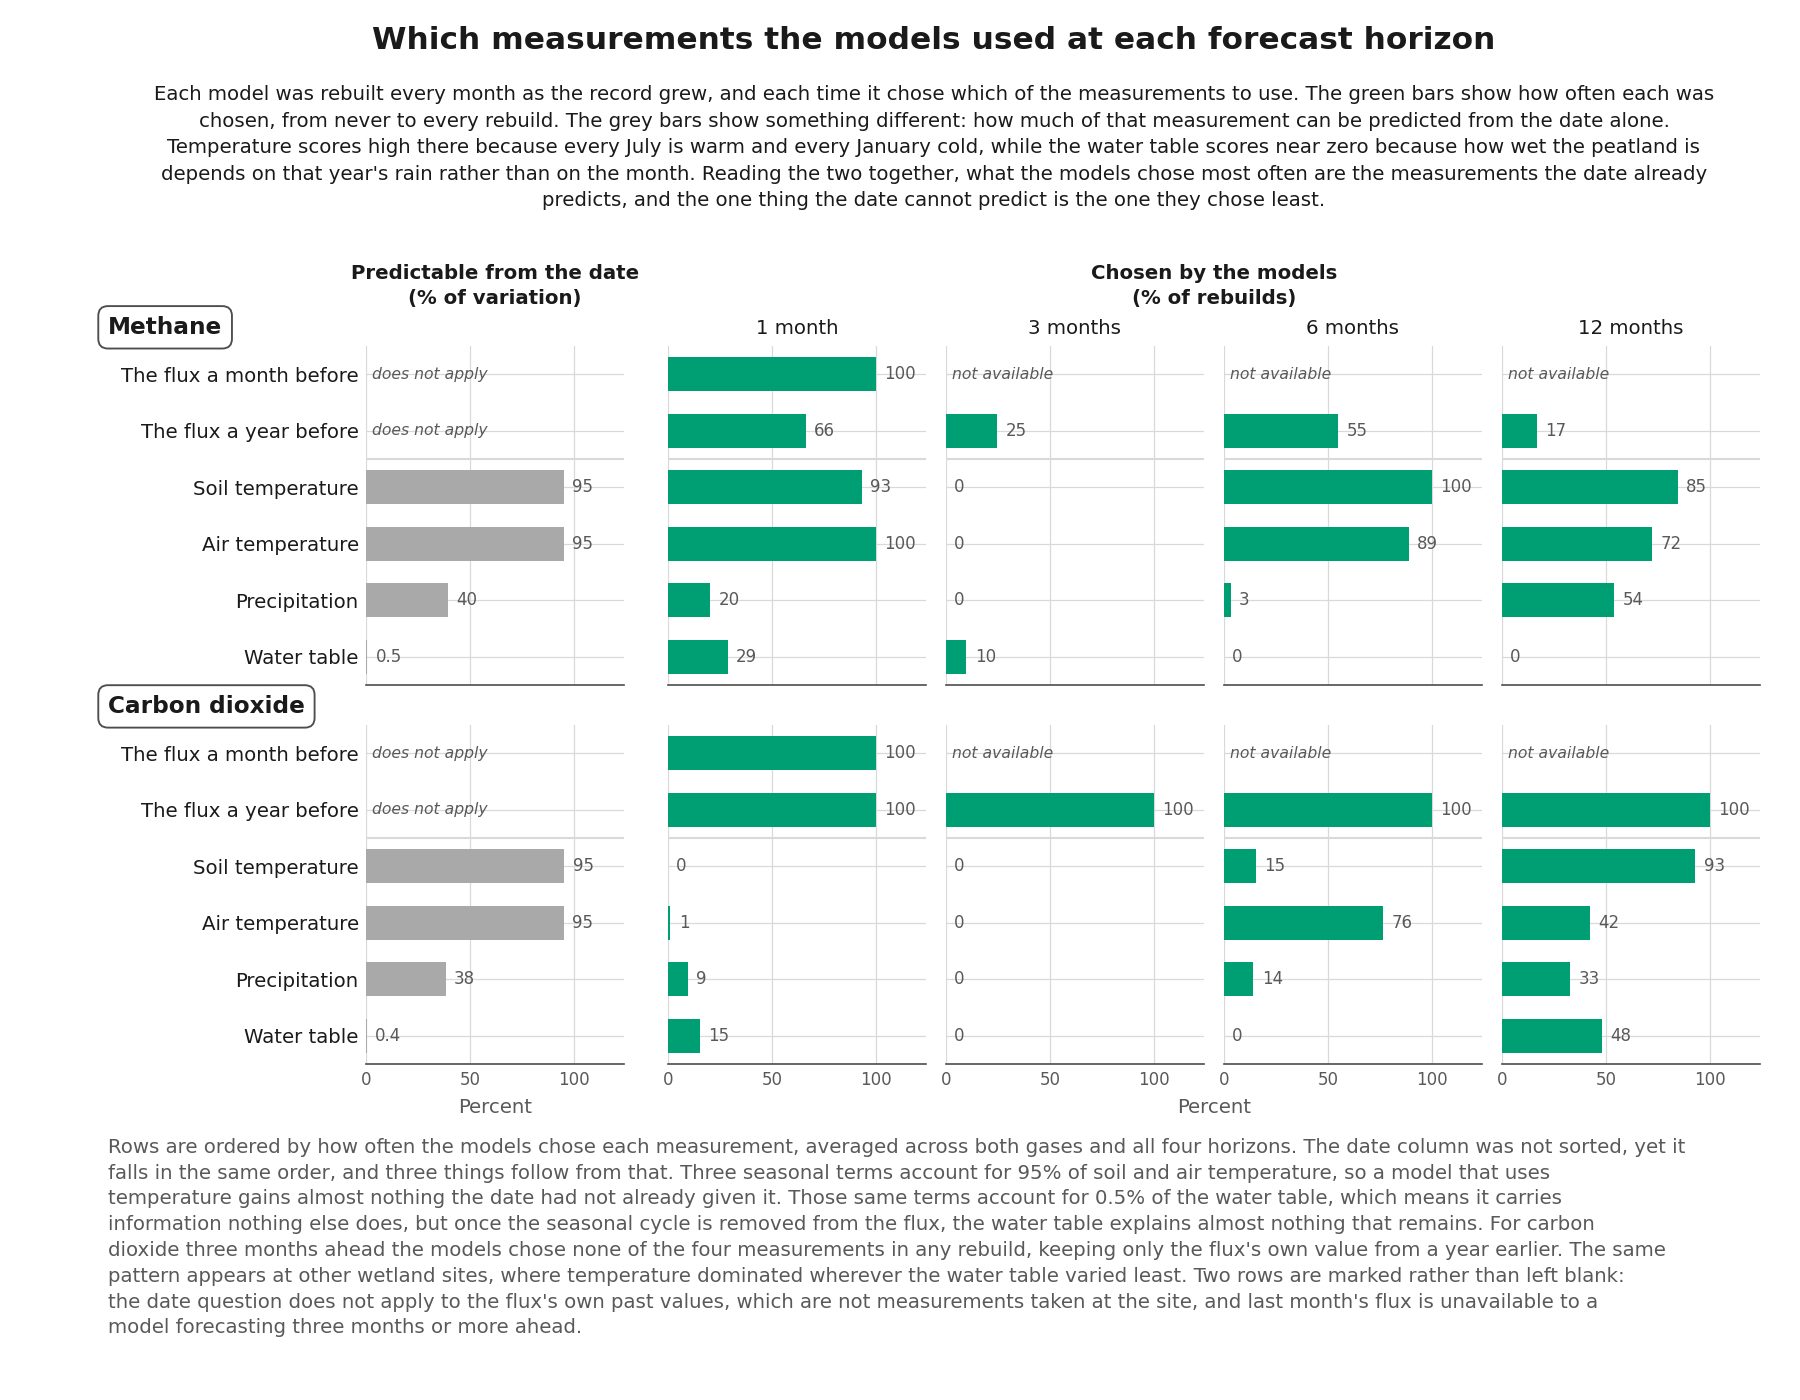
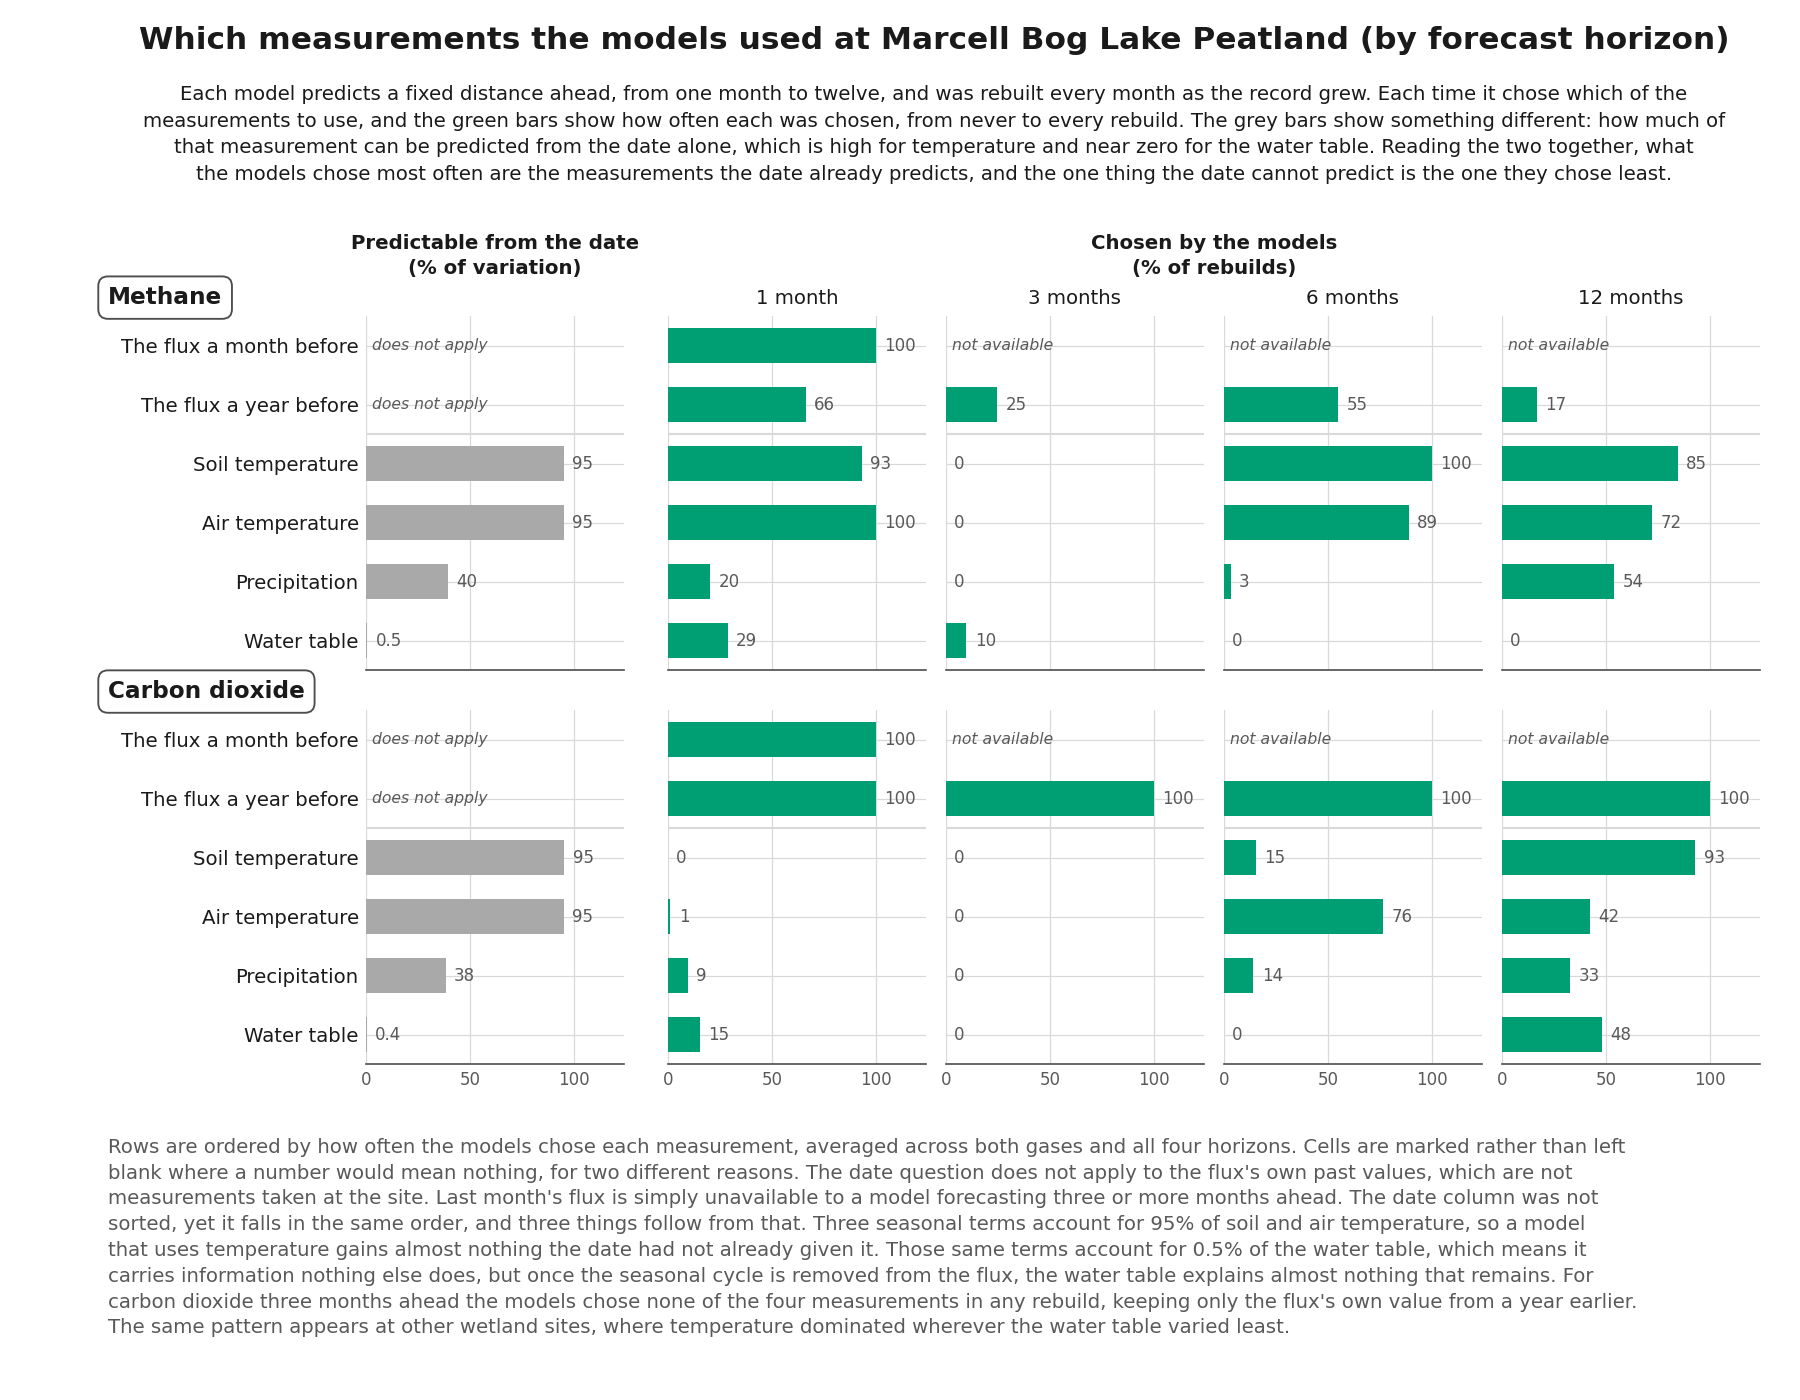
Revise the measurements used figure text

diff --git a/src/study/figures.py b/src/study/figures.py
@@ -875,36 +875,36 @@ def screening_panel(
 
 
 MEASUREMENTS_TEXT = ps.FigureText(
-    title="Which measurements the models used at each forecast horizon",
+    title=("Which measurements the models used at Marcell Bog Lake Peatland "
+           "(by forecast horizon)"),
     subtitle=(
-        "Each model was rebuilt every month as the record grew, and each time it "
-        "chose which of the measurements to use. The green bars show how often "
-        "each was chosen, from never to every rebuild. The grey bars show "
-        "something different: how much of that measurement can be predicted from "
-        "the date alone. Temperature scores high there because every July is warm "
-        "and every January cold, while the water table scores near zero because "
-        "how wet the peatland is depends on that year's rain rather than on the "
-        "month. Reading the two together, what the models chose most often are the "
-        "measurements the date already predicts, and the one thing the date cannot "
-        "predict is the one they chose least."
+        "Each model predicts a fixed distance ahead, from one month to twelve, "
+        "and was rebuilt every month as the record grew. Each time it chose which "
+        "of the measurements to use, and the green bars show how often each was "
+        "chosen, from never to every rebuild. The grey bars show something "
+        "different: how much of that measurement can be predicted from the date "
+        "alone, which is high for temperature and near zero for the water table. "
+        "Reading the two together, what the models chose most often are the "
+        "measurements the date already predicts, and the one thing the date "
+        "cannot predict is the one they chose least."
     ),
     description=(
         "Rows are ordered by how often the models chose each measurement, averaged "
-        "across both gases and all four horizons. The date column was not sorted, "
-        "yet it falls in the same order, and three things follow from that. Three "
-        "seasonal terms account for 95% of soil and air temperature, so a model "
-        "that uses temperature gains almost nothing the date had not already given "
-        "it. Those same terms account for 0.5% of the water table, which means it "
-        "carries information nothing else does, but once the seasonal cycle is "
+        "across both gases and all four horizons. Cells are marked rather than left "
+        "blank where a number would mean nothing, for two different reasons. The "
+        "date question does not apply to the flux's own past values, which are not "
+        "measurements taken at the site. Last month's flux is simply unavailable to "
+        "a model forecasting three or more months ahead. The date column was not "
+        "sorted, yet it falls in the same order, and three things follow from that. "
+        "Three seasonal terms account for 95% of soil and air temperature, so a "
+        "model that uses temperature gains almost nothing the date had not already "
+        "given it. Those same terms account for 0.5% of the water table, which means "
+        "it carries information nothing else does, but once the seasonal cycle is "
         "removed from the flux, the water table explains almost nothing that "
-        "remains. For carbon dioxide three months ahead the models chose none of "
-        "the four measurements in any rebuild, keeping only the flux's own value "
-        "from a year earlier. The same pattern appears at other wetland sites, "
-        "where temperature dominated wherever the water table varied least. Two "
-        "rows are marked rather than left blank: the date question does not apply "
-        "to the flux's own past values, which are not measurements taken at the "
-        "site, and last month's flux is unavailable to a model forecasting three "
-        "months or more ahead."
+        "remains. For carbon dioxide three months ahead the models chose none of the "
+        "four measurements in any rebuild, keeping only the flux's own value from a "
+        "year earlier. The same pattern appears at other wetland sites, where "
+        "temperature dominated wherever the water table varied least."
     ),
 )
 
@@ -914,10 +914,16 @@ MEASUREMENTS_TEXT = ps.FigureText(
 MEASUREMENTS_DESCRIPTION_PX = 240
 
 #: Headings over the two column groups, each centered on the columns it covers and
-#: broken before the parenthetical so the pair reads in the same register.
+#: broken before the parenthetical so the pair reads in the same register. They
+#: carry the unit, which is why no column is given an axis name of its own.
+#:
+#: "Chosen" rather than "kept" or "retained", which are the more literal words for
+#: what a selection step does. Kept implies a pool the reader has not been shown,
+#: and naming that pool is the screening vocabulary coming back by another route;
+#: chosen needs no antecedent. It also holds the subtitle and the heading to one
+#: verb, so the panel and the sentence above it describe one act rather than two.
 CHOSEN_HEADING = "Chosen by the models\n(% of rebuilds)"
 DATE_HEADING = "Predictable from the date\n(% of variation)"
-AXIS_LABEL = "Percent"
 
 #: The two reasons a cell is empty, which are not the same reason and so are not
 #: drawn the same way. Neither is missing data.
@@ -1055,10 +1061,11 @@ def measurements_used(panels: dict[str, pd.DataFrame]) -> Figure:
     date_middle = date_left + column / 2
     chosen_middle = first + (left + width - first) / 2
     heading_base = top - (HEADING_PX - 8) / height_px
+    # No axis name under the columns. The headings already give the unit, and the
+    # alternative to naming all five columns is naming none: two of five carrying
+    # it would read as a distinction between the columns rather than as a label.
     for middle, heading in ((date_middle, DATE_HEADING), (chosen_middle, CHOSEN_HEADING)):
         fig.text(middle, heading_base, heading, ha="center", va="bottom",
                  fontsize=ps.LABEL_SIZE, fontweight="bold", color=ps.INK,
                  linespacing=1.4)
-        fig.text(middle, bottom - 34 / height_px, AXIS_LABEL, ha="center", va="top",
-                 fontsize=ps.LABEL_SIZE, color=ps.MUTED)
     return fig

diff --git a/tests/test_measurements_used.py b/tests/test_measurements_used.py
@@ -220,16 +220,34 @@ def test_the_two_kinds_of_empty_cell_are_told_apart():
     ps.plt.close(fig)
 
 
-def test_the_description_says_what_each_empty_cell_means():
+def test_the_description_says_what_each_empty_cell_means_before_it_says_anything_else():
+    """A reader meeting a marked cell should not have to read to the end for it."""
     said = figures.MEASUREMENTS_TEXT.description
     assert "does not apply to the flux's own past values" in said
-    assert "unavailable to a" in said and "three months or more ahead" in said
+    assert "unavailable to a model forecasting three or more months ahead" in said
+    assert said.index("does not apply") < said.index("For carbon dioxide")
+    assert said.index("does not apply") < said.index("Three seasonal terms")
 
 
-def test_both_column_groups_carry_the_axis_they_are_read_against():
+def test_the_unit_is_carried_by_the_headings_rather_than_by_an_axis_name():
+    """Naming two columns of five would read as a distinction between them."""
+    assert "%" in figures.DATE_HEADING and "%" in figures.CHOSEN_HEADING
     fig = figures.measurements_used(real_panels())
-    assert [t.get_text() for t in fig.texts].count(figures.AXIS_LABEL) == 2
+    for ax in fig.axes:
+        assert not ax.get_xlabel()
+        printed = [t.get_text() for t in ax.get_xticklabels() if t.get_text()]
+        assert printed in ([], ["0", "50", "100"])      # blank on all but the last row
     ps.plt.close(fig)
+
+
+def test_the_title_names_the_site_as_the_rest_of_the_set_does():
+    assert "Marcell Bog Lake Peatland" in figures.MEASUREMENTS_TEXT.title
+
+
+def test_the_subtitle_says_what_a_horizon_is():
+    """This may be the first figure a reader meets, and the panels are horizons."""
+    said = figures.MEASUREMENTS_TEXT.subtitle
+    assert "fixed distance ahead" in said and "one month to twelve" in said
 
 
 def test_the_gases_are_named_in_the_bordered_box_the_other_figures_use():

diff --git a/figures/README_fragments.md b/figures/README_fragments.md
@@ -38,10 +38,10 @@ Methane is measured in nanomoles and carbon dioxide in micromoles, so the two pa
 
 The predictions follow the seasonal cycle, rising and falling in step with the measurements. On methane their largest misses are usually over-predictions. In 12 of the 57 evaluated methane months the flux came in below every fitted model, and in nine of those below the seasonal average too. 2015 is the clearest example: the seasonal average predicted 94 nanomoles for July and the tower measured 40. What the models miss is not when the season happens but how large it will be in a weak year. 2021, the weakest summer, lies outside the evaluated window and was never forecast. On carbon dioxide the eight models disagree by less than half the uncertainty in the measurement, which is why the green band sits inside the black one.
 
-### Which measurements the models used at each forecast horizon
+### Which measurements the models used at Marcell Bog Lake Peatland (by forecast horizon)
 
-![Which measurements the models used at each forecast horizon](figures/measurements_used_across_forecast_horizons.png)
+![Which measurements the models used at Marcell Bog Lake Peatland (by forecast horizon)](figures/measurements_used_across_forecast_horizons.png)
 
-**Each model was rebuilt every month as the record grew, and each time it chose which of the measurements to use. The green bars show how often each was chosen, from never to every rebuild. The grey bars show something different: how much of that measurement can be predicted from the date alone. Temperature scores high there because every July is warm and every January cold, while the water table scores near zero because how wet the peatland is depends on that year's rain rather than on the month. Reading the two together, what the models chose most often are the measurements the date already predicts, and the one thing the date cannot predict is the one they chose least.**
+**Each model predicts a fixed distance ahead, from one month to twelve, and was rebuilt every month as the record grew. Each time it chose which of the measurements to use, and the green bars show how often each was chosen, from never to every rebuild. The grey bars show something different: how much of that measurement can be predicted from the date alone, which is high for temperature and near zero for the water table. Reading the two together, what the models chose most often are the measurements the date already predicts, and the one thing the date cannot predict is the one they chose least.**
 
-Rows are ordered by how often the models chose each measurement, averaged across both gases and all four horizons. The date column was not sorted, yet it falls in the same order, and three things follow from that. Three seasonal terms account for 95% of soil and air temperature, so a model that uses temperature gains almost nothing the date had not already given it. Those same terms account for 0.5% of the water table, which means it carries information nothing else does, but once the seasonal cycle is removed from the flux, the water table explains almost nothing that remains. For carbon dioxide three months ahead the models chose none of the four measurements in any rebuild, keeping only the flux's own value from a year earlier. The same pattern appears at other wetland sites, where temperature dominated wherever the water table varied least. Two rows are marked rather than left blank: the date question does not apply to the flux's own past values, which are not measurements taken at the site, and last month's flux is unavailable to a model forecasting three months or more ahead.
+Rows are ordered by how often the models chose each measurement, averaged across both gases and all four horizons. Cells are marked rather than left blank where a number would mean nothing, for two different reasons. The date question does not apply to the flux's own past values, which are not measurements taken at the site. Last month's flux is simply unavailable to a model forecasting three or more months ahead. The date column was not sorted, yet it falls in the same order, and three things follow from that. Three seasonal terms account for 95% of soil and air temperature, so a model that uses temperature gains almost nothing the date had not already given it. Those same terms account for 0.5% of the water table, which means it carries information nothing else does, but once the seasonal cycle is removed from the flux, the water table explains almost nothing that remains. For carbon dioxide three months ahead the models chose none of the four measurements in any rebuild, keeping only the flux's own value from a year earlier. The same pattern appears at other wetland sites, where temperature dominated wherever the water table varied least.

diff --git a/notes/study.md b/notes/study.md
@@ -1792,6 +1792,17 @@ order on every panel, so the eye compares along a row across horizons and down a
 column between gases. Length carries the share, and the ordering carries the
 finding without needing to be read off a scale.
 
+**The title names the site, as the other five figures do.** An earlier title
+described the figure's two halves in a comma construction and named no place; the
+horizon is now parenthetical and the site is in the title proper.
+
+**The subtitle defines a forecast horizon.** This may be the first figure of the
+set a reader meets, and every panel is a horizon. An earlier six-sentence version
+carried two definitions and the finding, and spent a sentence explaining that
+July is warm and January cold — which the grey bars and the column heading
+already carry between them. Cut to four sentences: what a horizon is, what the
+green bars are, what the grey bars are, and what reading the two together shows.
+
 **Rows are ordered by mean use across both gases and all four horizons.** The
 resulting order is the flux a month before, the flux a year before, soil
 temperature, air temperature, precipitation, water table. The description states
@@ -1804,14 +1815,29 @@ question does not apply: the flux's own past is not a measurement taken at the
 site. On the horizon columns the one-month row is empty at three, six and twelve
 months because a model forecasting that far ahead cannot have last month's flux.
 The first is marked *does not apply* and the second *not available*, both in the
-cell, and the description says what each means. Left blank they read alike, and
-both read as data that went missing.
+cell. Left blank they read alike, and both read as data that went missing. **The
+description explains them in its second, third and fourth sentences, before any
+finding**: a reader meeting a marked cell should not have to reach the end of the
+block to learn what it means. The two are given a sentence each rather than one
+clause, since they are two different situations.
 
-**The axis is labeled and the headings carry the unit.** "Predictable from the
-date (% of variation)" over the leading column and "Chosen by the models (% of
-rebuilds)" over the four horizons, each broken before its parenthetical so the
-pair reads in the same register, with "Percent" under each group. The tick at
-full scale reads 100 rather than 100%, since the unit is now said twice above it.
+**The headings carry the unit, and no column carries an axis name.** "Predictable
+from the date (% of variation)" over the leading column and "Chosen by the models
+(% of rebuilds)" over the four horizons, each broken before its parenthetical so
+the pair reads in the same register. A "Percent" label was drawn under the two
+group centers first and removed: two of five columns carrying an axis name reads
+as a distinction between those columns and the other three rather than as a
+label, and the alternative of naming all five repeats one word five times for a
+scale that already runs 0 to 100 under a heading that says so. Ticks read 0, 50,
+100 on the bottom row of panels only.
+
+**"Chosen" rather than "kept" or "retained".** The literal description is that a
+selection step retained a candidate. Two things decided against it. "Kept"
+presupposes a pool the reader has not been shown, and naming that pool is the
+screening vocabulary returning by another route, where "chosen" needs no
+antecedent. And the subtitle says "chose" three times; a heading that said "kept"
+would describe the same act with a second verb and read as a second operation.
+The anthropomorphism is real and is the price paid.
 
 **The gases are named in the same bordered box as the other figures**, seated
 above each panel rather than in its corner: the corner holds the first row, which
@@ -1819,7 +1845,8 @@ here is a marked cell rather than the empty space the box needs. `panel_name`
 took an `x` override for this rather than the box being redrawn a second way.
 
 **The description outruns the shared allocation, and the canvas is sized around
-it.** It wraps to eight lines where the fixed block holds five. `wrap_description`
+it.** It wraps to eight lines where the fixed block holds five, and the figure
+declares 240 px against the shared 156. `wrap_description`
 and `canvas_area` took a `description_px` parameter so this one figure can declare
 the room it needs on a taller canvas; the shared default is untouched, because
 raising it would change the proportions of every other figure in the set. This is
